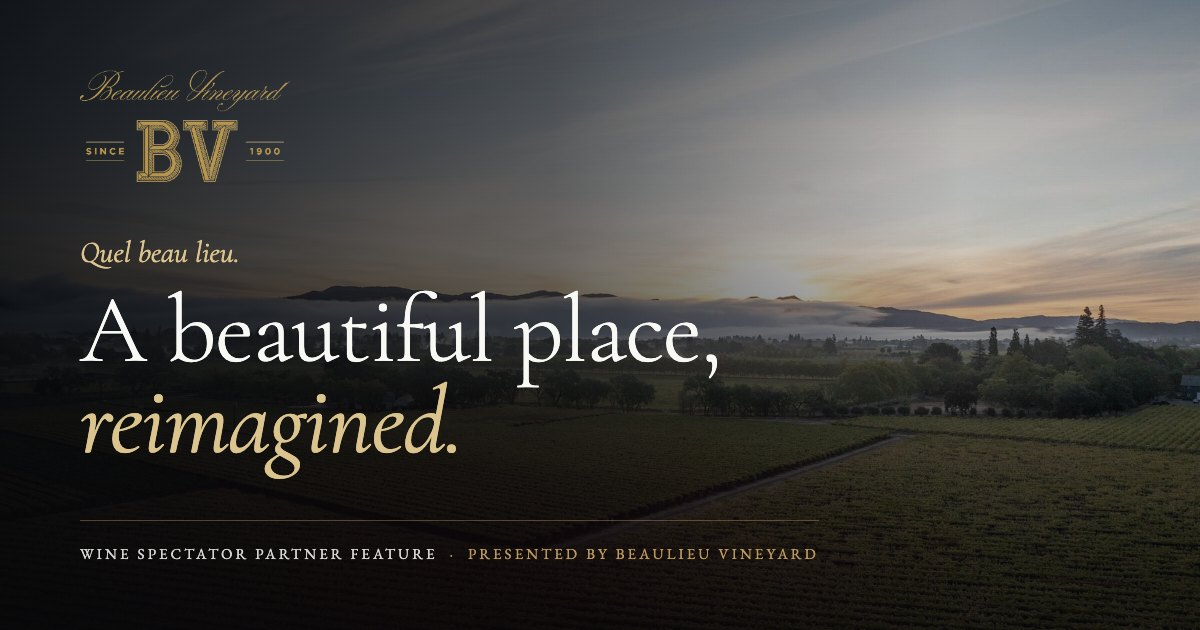
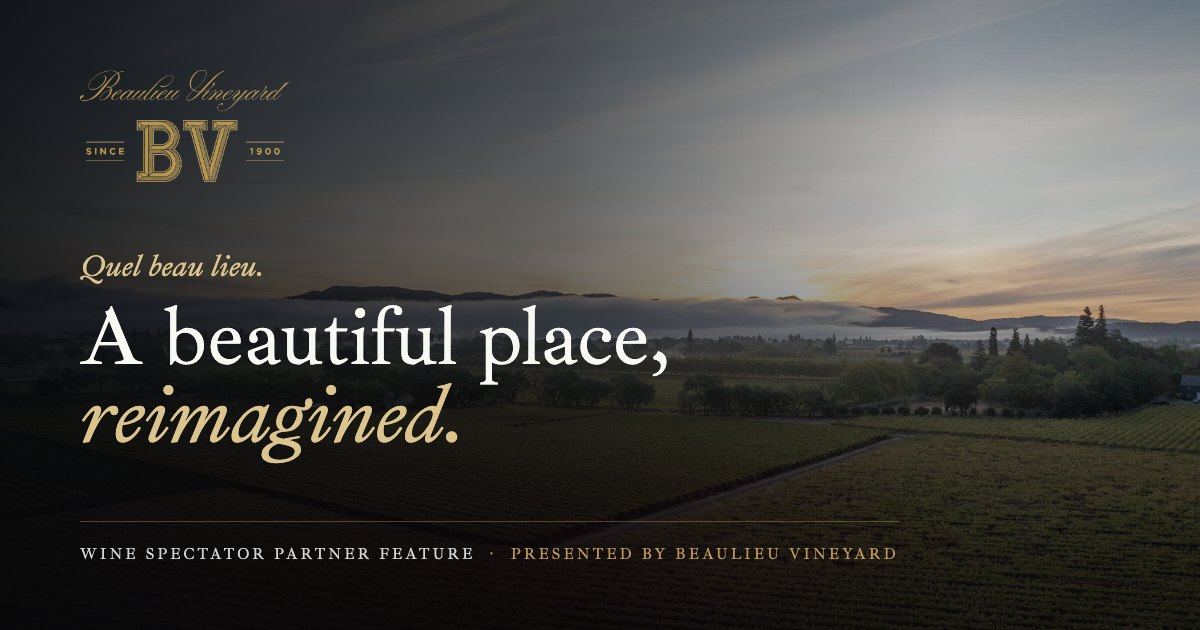
Switch to Ibarra Real Nova; open up chapter cards; solid scrolled nav; hero legibility

Changed region(s): [[0.0617, 0.3921, 0.5858, 0.7841], [0.0617, 0.8143, 0.74, 0.9048], [0.5858, 0.573, 0.6167, 0.6032]]

diff --git a/src/components/chapters.css b/src/components/chapters.css
@@ -21,9 +21,9 @@
 .chapter-card__link {
   display: block;
   position: relative;
-  border-radius: 22px;
+  border-radius: 14px;
   overflow: hidden;
-  aspect-ratio: 3 / 5;
+  aspect-ratio: 3 / 4.6;
   isolation: isolate;
   transform: translateZ(0);
 }
@@ -48,21 +48,44 @@
   content: '';
   position: absolute;
   inset: 0;
-  background: linear-gradient(180deg, rgba(6, 7, 9, 0.1), rgba(6, 7, 9, 0.75) 70%);
+  background: linear-gradient(180deg, rgba(6, 7, 9, 0) 30%, rgba(6, 7, 9, 0.55) 55%, rgba(6, 7, 9, 0.94) 100%);
 }
 
-.chapter-card__body {
+/* Text sits directly on the photograph's gradient, without a boxed panel */
+.chapter-card__body.glass {
   position: absolute;
-  left: 12px;
-  right: 12px;
-  bottom: 12px;
+  left: 0;
+  right: 0;
+  bottom: 0;
   z-index: 1;
-  padding: 20px 20px 18px;
-  border-radius: 16px;
+  padding: 26px 24px 24px;
   display: grid;
   gap: 6px;
-  --glass-bg: rgba(6, 7, 9, 0.38);
+  background: none;
+  border: 0;
+  border-radius: 0;
+  box-shadow: none;
+  backdrop-filter: none;
+  -webkit-backdrop-filter: none;
+  overflow: visible;
   transition: transform 0.8s var(--ease);
+}
+.chapter-card__body.glass::before {
+  display: none;
+}
+.chapter-card__link::after {
+  content: '';
+  position: absolute;
+  inset: 0;
+  z-index: 2;
+  border-radius: inherit;
+  box-shadow: inset 0 0 0 1px rgba(188, 153, 93, 0.22);
+  pointer-events: none;
+  transition: box-shadow 0.5s;
+}
+.chapter-card--live .chapter-card__link::after,
+.chapter-card__link:hover::after {
+  box-shadow: inset 0 0 0 1px rgba(188, 153, 93, 0.65);
 }
 .chapter-card__link:hover .chapter-card__body {
   transform: translateY(-4px);
@@ -76,7 +99,7 @@
 .chapter-card__num {
   font-family: var(--font-display);
   font-style: italic;
-  font-size: 30px;
+  font-size: 26px;
   color: var(--bv-gold);
   line-height: 1;
 }
@@ -88,7 +111,10 @@
   letter-spacing: 0.12em;
   padding: 5px 11px 7px;
   border-radius: 999px;
-  border: 1px solid rgba(188, 153, 93, 0.35);
+  border: 1px solid rgba(188, 153, 93, 0.45);
+  background: rgba(6, 7, 9, 0.6);
+  backdrop-filter: blur(6px);
+  -webkit-backdrop-filter: blur(6px);
   color: var(--bv-gold-light);
 }
 .chapter-card__status--live {
@@ -97,12 +123,12 @@
   color: var(--bv-paper);
 }
 .chapter-card__status--upcoming {
-  color: rgba(248, 249, 245, 0.6);
-  border-color: rgba(248, 249, 245, 0.2);
+  color: rgba(248, 249, 245, 0.82);
+  border-color: rgba(248, 249, 245, 0.3);
 }
 
 .chapter-card__body h3 {
-  font-size: clamp(26px, 2vw, 32px);
+  font-size: clamp(23px, 1.75vw, 28px);
   font-weight: 500;
 }
 .chapter-card__feature {
@@ -111,8 +137,12 @@
   font-size: 17px;
 }
 .chapter-card__body p {
-  margin: 4px 0 0;
-  font-size: 15.5px;
+  display: -webkit-box;
+  -webkit-line-clamp: 3;
+  -webkit-box-orient: vertical;
+  overflow: hidden;
+  margin: 6px 0 0;
+  font-size: 16px;
   line-height: 1.45;
   color: rgba(248, 249, 245, 0.78);
 }

diff --git a/src/styles/global.css b/src/styles/global.css
@@ -13,13 +13,12 @@
   --bv-ink: #141313;
   --bv-night: #060709;
 
-  /* A single Garamond lineage, matching the brand's Adobe Garamond Pro.
-     Display: Cormorant Garamond, cut for large sizes with fine hairlines and a true italic.
-     Reading and labels: EB Garamond, set in true small caps for eyebrows, nav and buttons.
+  /* Ibarra Real Nova, a revival of the 1780 Ibarra type, carries the whole page:
+     roman and italic for headlines and reading, small caps for eyebrows, nav and buttons.
      The only script on the page is the BV logo itself. */
-  --font-display: 'Cormorant Garamond', 'Adobe Garamond Pro', Garamond, Georgia, serif;
-  --font-serif: 'EB Garamond', 'Adobe Garamond Pro', Garamond, Georgia, serif;
-  --font-caps: 'EB Garamond', 'Adobe Garamond Pro', Garamond, Georgia, serif;
+  --font-display: 'Ibarra Real Nova', 'Adobe Garamond Pro', Georgia, serif;
+  --font-serif: 'Ibarra Real Nova', 'Adobe Garamond Pro', Georgia, serif;
+  --font-caps: 'Ibarra Real Nova', 'Adobe Garamond Pro', Georgia, serif;
 
   --glass-bg: rgba(255, 255, 255, 0.06);
   --glass-border: rgba(220, 196, 143, 0.22);
@@ -58,8 +57,8 @@ body {
   background: var(--bv-night);
   color: var(--bv-paper);
   font-family: var(--font-serif);
-  font-size: 20px;
-  line-height: 1.6;
+  font-size: 19px;
+  line-height: 1.62;
   font-variant-numeric: oldstyle-nums proportional-nums;
   font-kerning: normal;
   font-feature-settings: 'kern', 'liga', 'clig', 'calt';
@@ -115,8 +114,8 @@ button {
 .display {
   font-family: var(--font-display);
   font-weight: 400;
-  line-height: 0.96;
-  letter-spacing: -0.012em;
+  line-height: 1.02;
+  letter-spacing: -0.018em;
   margin: 0;
   font-variant-numeric: lining-nums;
   text-wrap: balance;
@@ -129,15 +128,15 @@ button {
 }
 
 .display--xl {
-  font-size: clamp(50px, 7.8vw, 124px);
-  font-weight: 300;
+  font-size: clamp(44px, 6.6vw, 104px);
+  line-height: 0.98;
 }
 .display--lg {
-  font-size: clamp(40px, 5.4vw, 80px);
+  font-size: clamp(36px, 4.6vw, 68px);
 }
 .display--md {
-  font-size: clamp(30px, 3.4vw, 50px);
-  line-height: 1.02;
+  font-size: clamp(27px, 2.9vw, 42px);
+  line-height: 1.06;
 }
 
 /* An italic flourish in place of a script face */

diff --git a/src/components/hero.css b/src/components/hero.css
@@ -27,7 +27,7 @@
   inset: 0;
   z-index: 1;
   background:
-    linear-gradient(90deg, rgba(6, 7, 9, 0.72) 0%, rgba(6, 7, 9, 0.38) 42%, rgba(6, 7, 9, 0.05) 75%),
+    linear-gradient(90deg, rgba(6, 7, 9, 0.8) 0%, rgba(6, 7, 9, 0.45) 42%, rgba(6, 7, 9, 0.05) 75%),
     linear-gradient(180deg, rgba(6, 7, 9, 0.6) 0%, rgba(6, 7, 9, 0.15) 30%, rgba(6, 7, 9, 0.5) 62%, rgba(6, 7, 9, 0.97) 100%),
     radial-gradient(80% 60% at 50% 100%, rgba(103, 0, 13, 0.45), transparent 70%);
 }
@@ -64,6 +64,10 @@
 }
 .hero__presenter .eyebrow {
   font-size: 15px;
+  text-shadow: 0 1px 12px rgba(6, 7, 9, 0.9);
+}
+.hero__presenter .eyebrow:not(.eyebrow--muted) {
+  color: var(--bv-gold-light);
 }
 .hero__dot {
   width: 4px;

diff --git a/index.html b/index.html
@@ -12,7 +12,7 @@
 
     <link rel="preconnect" href="https://fonts.googleapis.com" />
     <link rel="preconnect" href="https://fonts.gstatic.com" crossorigin />
-    <link href="https://fonts.googleapis.com/css2?family=Cormorant+Garamond:ital,wght@0,300..700;1,300..700&family=EB+Garamond:ital,wght@0,400..800;1,400..800&display=swap" rel="stylesheet" />
+    <link href="https://fonts.googleapis.com/css2?family=Ibarra+Real+Nova:ital,wght@0,400..700;1,400..700&display=swap" rel="stylesheet" />
     <link rel="preload" as="image" href="/img/vineyard-fall-drone.jpg" fetchpriority="high" />
 
     <meta property="og:type" content="website" />

diff --git a/src/components/timeline.css b/src/components/timeline.css
@@ -194,7 +194,7 @@
 .tl-card--text .tl-card__year {
   font-style: normal;
   font-weight: 300;
-  font-size: 76px;
+  font-size: 62px;
   letter-spacing: -0.01em;
   color: var(--bv-gold-light);
   margin-bottom: 8px;
@@ -203,7 +203,7 @@
   margin: 0;
   font-family: var(--font-display);
   font-weight: 500;
-  font-size: 30px;
+  font-size: 25px;
   line-height: 1.08;
 }
 .tl-card__body p {
@@ -223,7 +223,7 @@
   padding-left: 20px;
 }
 .timeline__end .flourish {
-  font-size: 52px;
+  font-size: 42px;
 }
 
 .timeline__rail {

diff --git a/src/components/nav.css b/src/components/nav.css
@@ -27,8 +27,12 @@
   transition: background 0.4s;
 }
 .nav--scrolled .nav__inner {
-  --glass-bg: rgba(6, 7, 9, 0.82);
+  --glass-bg: rgba(8, 7, 8, 0.95);
+  --glass-blur: 28px;
   border-color: rgba(188, 153, 93, 0.3);
+}
+.nav--scrolled .nav__inner::before {
+  opacity: 0.35;
 }
 
 .nav__brand {

diff --git a/src/components/renovation.css b/src/components/renovation.css
@@ -68,7 +68,7 @@
   font-family: var(--font-display);
   font-weight: 300;
   font-variant-numeric: lining-nums;
-  font-size: clamp(44px, 4.4vw, 68px);
+  font-size: clamp(38px, 3.8vw, 58px);
   line-height: 1;
   color: var(--bv-red);
 }

diff --git a/src/components/story.css b/src/components/story.css
@@ -38,7 +38,7 @@
   position: relative;
   margin: 0;
   font-family: var(--font-display);
-  font-size: clamp(25px, 2.1vw, 32px);
+  font-size: clamp(22px, 1.8vw, 28px);
   line-height: 1.3;
   font-style: italic;
   color: var(--bv-ink);

diff --git a/src/components/visit.css b/src/components/visit.css
@@ -201,8 +201,8 @@
   margin: 0;
   font-family: var(--font-display);
   font-weight: 500;
-  font-size: 30px;
-  line-height: 1.08;
+  font-size: 25px;
+  line-height: 1.12;
 }
 .visit__exp-meta {
   display: inline-flex;

diff --git a/src/components/wines.css b/src/components/wines.css
@@ -169,7 +169,7 @@
   font-family: var(--font-display);
   font-weight: 300;
   font-variant-numeric: lining-nums;
-  font-size: 52px;
+  font-size: 46px;
   line-height: 1;
   margin-bottom: 8px;
 }

diff --git a/README.md b/README.md
@@ -27,7 +27,7 @@ npm run build && npm run preview
 Colors come straight from the 2025 BV Brand Guidelines web palette: red #67000D, gold #BC995D, paper #F8F9F5, stone #CEC5BE, charcoal #3B3E3B, ink #141313.
 Logo files in `public/brand/` were cut from the one-color gold logo page of the guidelines.
 
-Typography is a single Garamond lineage, in keeping with the brand's Adobe Garamond Pro: Cormorant Garamond for display (with its true italic used for accents) and EB Garamond for reading, with labels, nav and buttons set in true small caps (`.caps`, `.eyebrow`). There is deliberately no script face; the only script on the page is the BV logo.
+Typography is a single family, Ibarra Real Nova (a revival of the 1780 Ibarra type), chosen over the usual luxury-template serifs: roman and italic for headlines and reading, small caps for labels, nav and buttons (`.caps`, `.eyebrow`). There is deliberately no script face; the only script on the page is the BV logo.
 To use the licensed Adobe Garamond Pro at launch, add an Adobe Fonts web project `<link>` to `index.html` and point `--font-display`, `--font-serif` and `--font-caps` at it.
 
 ## Deploy settings
